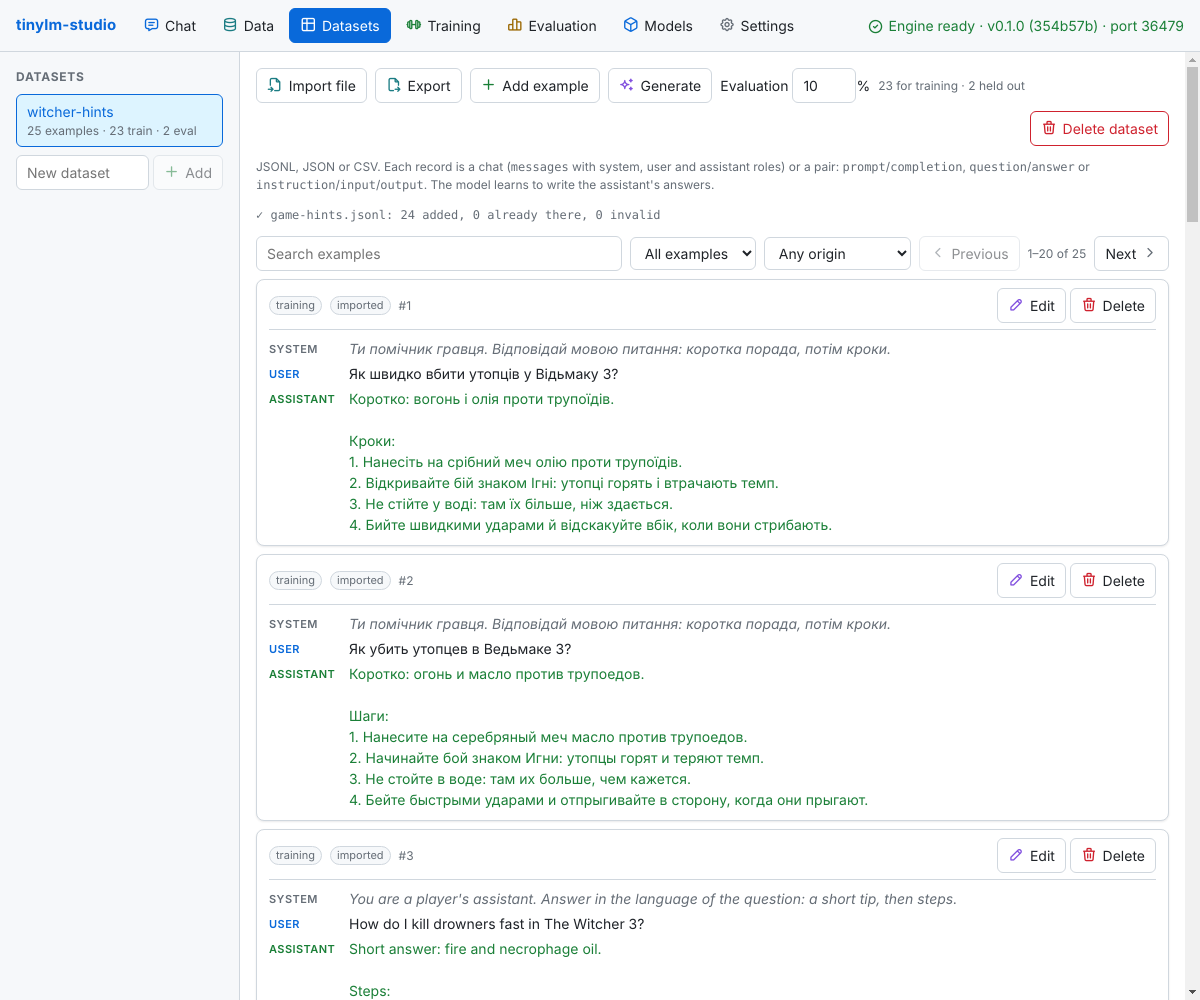
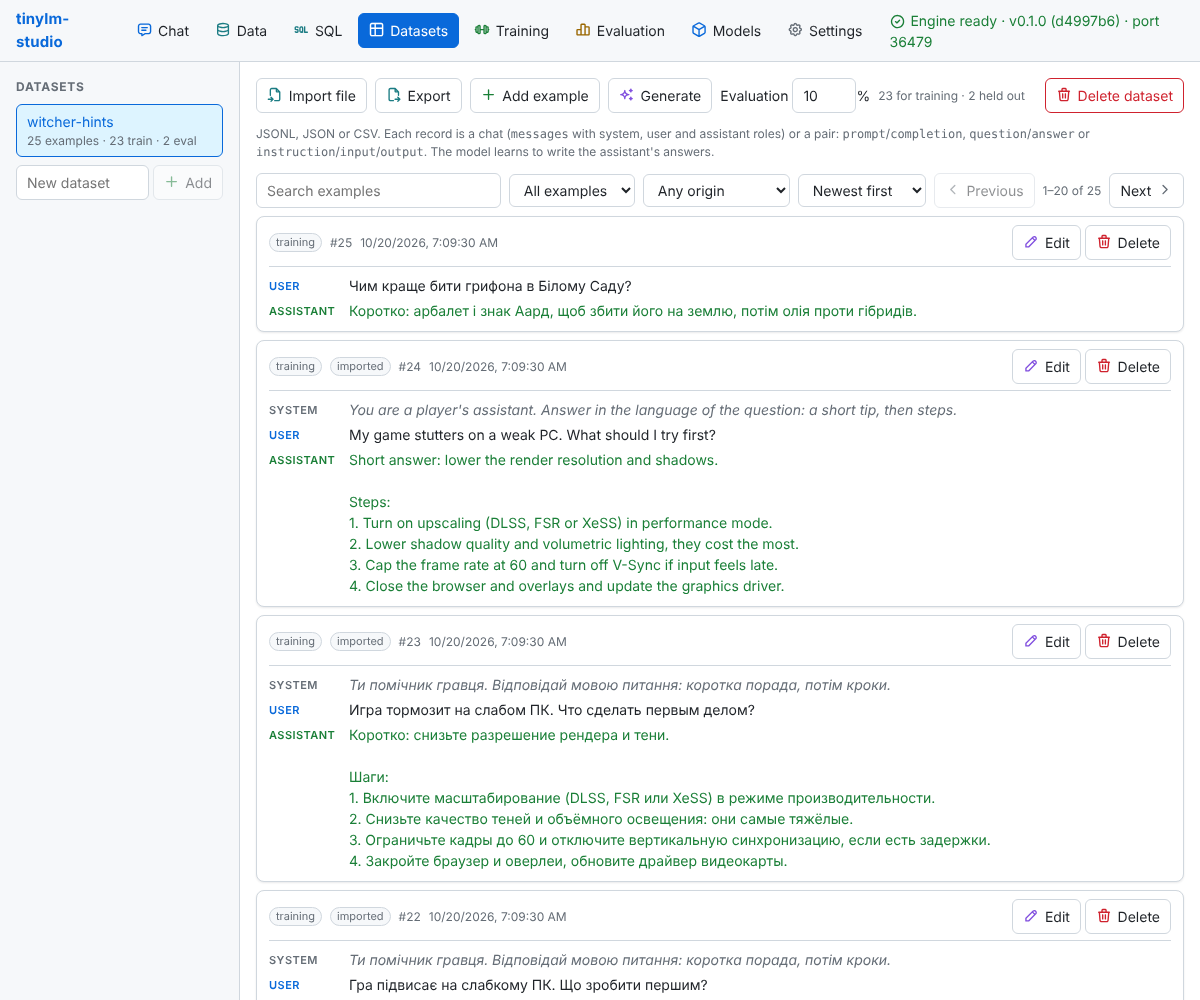
datasets: sort examples and show when each was added
The examples list on the Datasets page gets a sort menu (newest first,
oldest first, longest first, shortest first) and shows each example's
created_at. GET /api/datasets/{name}/examples takes sort=oldest|newest|
longest|shortest (oldest by default, as before); longest and shortest
go by the length of the conversation.

Claude-Session: https://claude.ai/code/session_01GT4fq1e6BY4Gnz4RDWeGLa

diff --git a/desktop/src/renderer/Datasets.tsx b/desktop/src/renderer/Datasets.tsx
@@ -106,6 +106,7 @@ function DatasetView({
   const [search, setSearch] = useState("");
   const [split, setSplit] = useState<ExampleFilter["split"]>("all");
   const [origin, setOrigin] = useState<ExampleFilter["origin"]>(undefined);
+  const [sort, setSort] = useState<ExampleFilter["sort"]>("newest");
   const [generating, setGenerating] = useState(false);
   const [offset, setOffset] = useState(0);
   const [examples, setExamples] = useState<Example[]>([]);
@@ -134,7 +135,7 @@ function DatasetView({
 
   useEffect(() => {
     let stale = false;
-    load("Loading examples…", () => client.examples(dataset.name, { query: search, split, origin, offset, limit: PAGE_SIZE }))
+    load("Loading examples…", () => client.examples(dataset.name, { query: search, split, origin, sort, offset, limit: PAGE_SIZE }))
       .then((page) => {
         if (stale) return;
         setExamples(page.data);
@@ -145,7 +146,7 @@ function DatasetView({
     return () => {
       stale = true;
     };
-  }, [client, dataset.name, search, split, origin, offset, version, load]);
+  }, [client, dataset.name, search, split, origin, sort, offset, version, load]);
 
   async function importFiles(files: FileList | null) {
     if (!files) return;
@@ -338,6 +339,18 @@ function DatasetView({
             <option value="imported">Imported</option>
             <option value="generated">Generated</option>
           </select>
+          <select
+            value={sort}
+            onChange={(e) => {
+              setSort(e.target.value as ExampleFilter["sort"]);
+              setOffset(0);
+            }}
+          >
+            <option value="newest">Newest first</option>
+            <option value="oldest">Oldest first</option>
+            <option value="longest">Longest first</option>
+            <option value="shortest">Shortest first</option>
+          </select>
           <span className="pager">
             <button disabled={offset === 0} onClick={() => setOffset(Math.max(0, offset - PAGE_SIZE))}><Icon name="chevron-left" />Previous</button>
             <span className="muted">{total === 0 ? "0" : `${offset + 1}–${last}`} of {total}</span>
@@ -350,6 +363,9 @@ function DatasetView({
               <span className={`badge ${example.split}`}>{example.split === "eval" ? "held out" : "training"}</span>
               {example.origin !== "manual" && <span className="badge">{example.origin}</span>}
               <span className="muted">#{example.id}</span>
+              <span className="muted nowrap" title="Added">
+                {new Date(example.created_at).toLocaleString()}
+              </span>
               {example.source && (
                 <span className="muted source" title={example.source}>
                   from {example.source}

diff --git a/desktop/src/renderer/engine-api.ts b/desktop/src/renderer/engine-api.ts
@@ -5890,6 +5890,7 @@ export interface operations {
                 query?: string;
                 split?: "all" | "train" | "eval";
                 origin?: ("manual" | "imported" | "generated") | null;
+                sort?: "oldest" | "newest" | "longest" | "shortest";
                 offset?: number;
                 limit?: number | null;
             };

diff --git a/engine/src/engine/datasets/store.py b/engine/src/engine/datasets/store.py
@@ -17,6 +17,14 @@ from engine.rag.store import KnowledgeStore, now
 DATASET_NAME = re.compile(r"^[\w-]{1,64}$")
 Split = Literal["all", "train", "eval"]
 Origin = Literal["manual", "imported", "generated"]
+ExampleSort = Literal["oldest", "newest", "longest", "shortest"]
+EXAMPLE_ORDER = {
+    "oldest": "e.id",
+    "newest": "e.id DESC",
+    # The length of the conversation's text (as stored, JSON).
+    "longest": "length(e.messages) DESC, e.id",
+    "shortest": "length(e.messages), e.id",
+}
 # A well-mixed 0-99 bucket per example id (Knuth's multiplicative hash).
 BUCKET = "((e.id * 2654435761) % 4294967296 % 100)"
 # Errors reported per import; a broken file would otherwise send thousands of lines.
@@ -131,13 +139,14 @@ class DatasetStore:
         offset: int = 0,
         limit: int | None = None,
         origin: Origin | None = None,
+        sort: ExampleSort = "oldest",
     ) -> list[dict]:
         where, params = self._filter(dataset, query, split, origin)
         rows = self.db.execute(
             "SELECT e.id, e.messages, e.created_at, e.origin, e.source, "
             f"{BUCKET} < d.eval_percent AS held_out "
             f"FROM examples e JOIN datasets d ON d.name = e.dataset WHERE {where} "
-            "ORDER BY e.id LIMIT ? OFFSET ?",
+            f"ORDER BY {EXAMPLE_ORDER[sort]} LIMIT ? OFFSET ?",
             (*params, -1 if limit is None else limit, offset),
         )
         return [

diff --git a/engine/src/engine/api/datasets.py b/engine/src/engine/api/datasets.py
@@ -23,7 +23,14 @@ from engine.api.schemas import (
 )
 from engine.datasets.formats import InvalidExample
 from engine.datasets.generate import LANGUAGE_NAMES, GenerationManager, GenerationOptions
-from engine.datasets.store import DatasetNotFound, DatasetStore, InvalidDataset, Origin, Split
+from engine.datasets.store import (
+    DatasetNotFound,
+    DatasetStore,
+    ExampleSort,
+    InvalidDataset,
+    Origin,
+    Split,
+)
 from engine.rag.store import CollectionNotFound
 from engine.teachers.store import TeacherNotFound
 
@@ -160,13 +167,14 @@ def list_examples(
     query: str = "",
     split: Split = "all",
     origin: Origin | None = None,
+    sort: ExampleSort = "oldest",
     offset: int = Query(0, ge=0),
     limit: int | None = Query(None, ge=1, le=1000),
     store: DatasetStore = Depends(datasets),
 ) -> dict:
     try:
         return {
-            "data": store.examples(name, query, split, offset, limit, origin),
+            "data": store.examples(name, query, split, offset, limit, origin, sort),
             "total": store.count(name, query, split, origin),
         }
     except DatasetNotFound:

diff --git a/engine/tests/test_datasets.py b/engine/tests/test_datasets.py
@@ -126,6 +126,12 @@ def test_datasets_api(client):
         for e in client.get("/api/datasets/hints/examples").json()["data"]
     ]
     assert "Знак Аард." in texts
+    ids = [e["id"] for e in client.get("/api/datasets/hints/examples").json()["data"]]
+    newest = client.get("/api/datasets/hints/examples", params={"sort": "newest"}).json()
+    assert [e["id"] for e in newest["data"]] == ids[::-1]
+    longest = client.get("/api/datasets/hints/examples", params={"sort": "longest"}).json()
+    assert longest["data"][0]["messages"][0]["content"] == "Підказка для Відьмака?"
+    assert all(e["created_at"] for e in longest["data"])
     invalid = client.put(path, json={"messages": changed[:1]})
     assert invalid.status_code == 422 and "last message" in invalid.json()["detail"]
 

diff --git a/docs/api.md b/docs/api.md
@@ -425,7 +425,7 @@ write. Examples live in `knowledge.db` next to the collections.
 | DELETE | `/api/datasets/{name}` | Deletes the dataset and its examples |
 | POST | `/api/datasets/{name}/import` | Multipart upload, field `files`: `added`, `duplicates`, `invalid` and the first `errors` (`line`, `error`) per file. Records with an `origin` (and `source`), as written by export, keep it; others are `imported` |
 | GET | `/api/datasets/{name}/export` | `?split=all\|train\|eval`: the examples as JSONL (`{"messages": [...], "origin": ..., "source": ...}` per line), downloaded as `<name>.jsonl`; import reads it back |
-| GET | `/api/datasets/{name}/examples` | `?query=&split=all\|train\|eval&origin=manual\|imported\|generated&offset=0&limit=20`: one page of examples (each with `split`, `origin` and, for generated ones, `source`) and the matching `total` |
+| GET | `/api/datasets/{name}/examples` | `?query=&split=all\|train\|eval&origin=manual\|imported\|generated&sort=oldest\|newest\|longest\|shortest&offset=0&limit=20`: one page of examples (each with `split`, `origin`, `created_at` and, for generated ones, `source`) and the matching `total`; `longest` and `shortest` go by the length of the conversation |
 | POST | `/api/datasets/{name}/examples` | `{"messages": [...]}` |
 | PUT | `/api/datasets/{name}/examples/{id}` | `{"messages": [...]}` |
 | DELETE | `/api/datasets/{name}/examples/{id}` | Deletes one example |

diff --git a/docs/user-guide.md b/docs/user-guide.md
@@ -350,6 +350,10 @@ language); facts are better left to collections and chat with data.
 - Each example shows where it came from: **imported**, **generated** (with the document it was
   written from) or written by hand. The origin filter shows one kind at a time, for example to
   review generated examples before training.
+- Each example also shows when it was added. The list is sorted newest first; the sort menu
+  also offers oldest first, longest first and shortest first (by the length of the
+  conversation), for example to find the longest examples before training with a short
+  `max_length`.
 
 ### Generating examples
 
